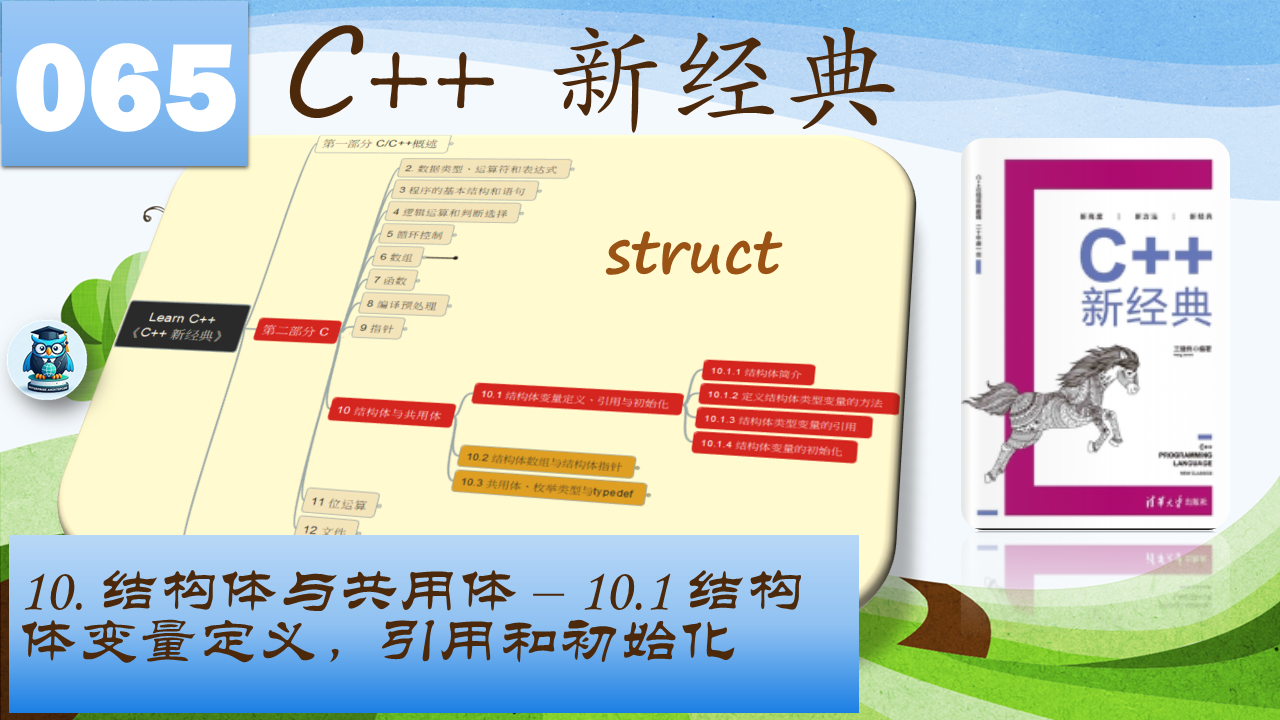
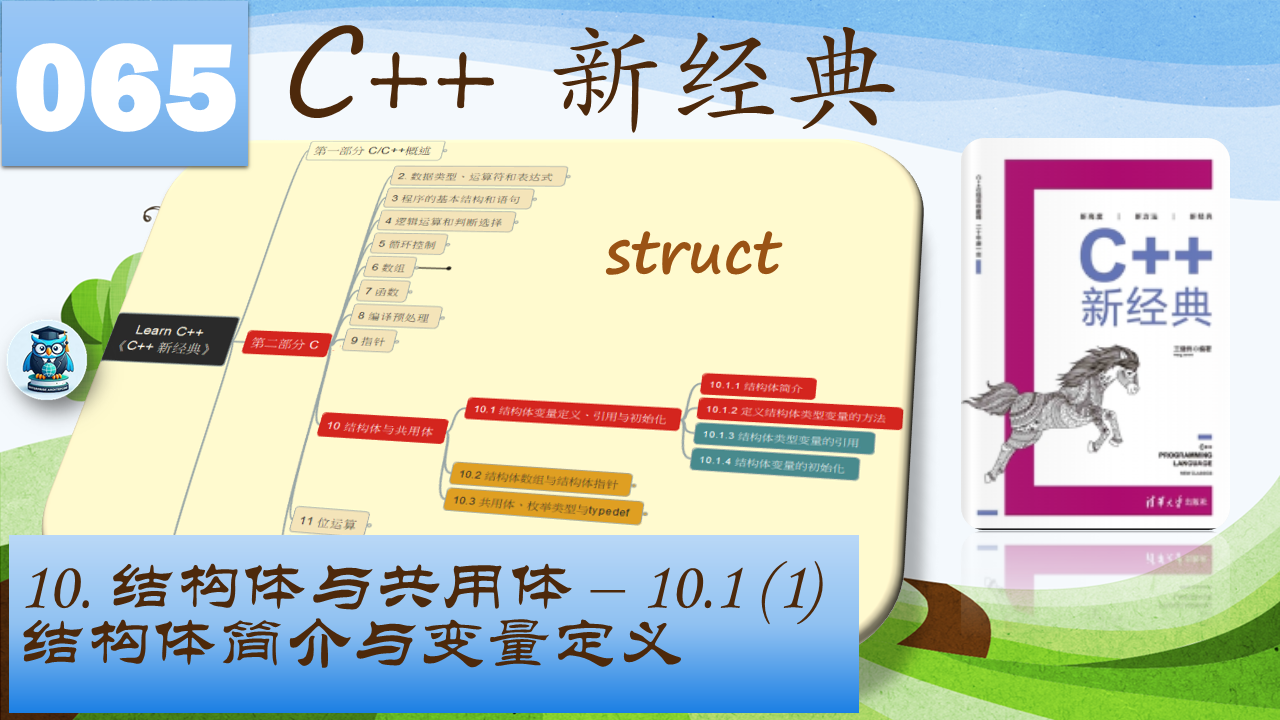
complete C-lang part

diff --git a/cpp_new/cpp_new.mm b/cpp_new/cpp_new.mm
@@ -83,7 +83,7 @@
 <node TEXT="第一部分 C/C++概述" FOLDED="true" POSITION="bottom_or_right" ID="ID_1586641191" CREATED="1697059273426" MODIFIED="1712683467480" VGAP_QUANTITY="3 pt">
 <node TEXT="1 C/C++语言" ID="ID_308802542" CREATED="1697059426298" MODIFIED="1712683467479"/>
 </node>
-<node TEXT="第二部分 C" POSITION="bottom_or_right" ID="ID_927283953" CREATED="1696099910757" MODIFIED="1697059294958">
+<node TEXT="第二部分 C" FOLDED="true" POSITION="bottom_or_right" ID="ID_927283953" CREATED="1696099910757" MODIFIED="1697059294958">
 <node TEXT="2. 数据类型、运算符和表达式" FOLDED="true" POSITION="bottom_or_right" ID="ID_1269894434" CREATED="1696104409292" MODIFIED="1696104417623">
 <node TEXT="2.1 常量、变量、整型、实型和字符型&#xa;(video 002)" FOLDED="true" POSITION="bottom_or_right" ID="ID_40937223" CREATED="1696099950317" MODIFIED="1696104737168">
 <node TEXT="2.1.1 初始程序" POSITION="bottom_or_right" ID="ID_60111752" CREATED="1696103532243" MODIFIED="1696103585134"/>
@@ -348,20 +348,20 @@
 <node TEXT="12.1.1 文件简介" POSITION="bottom_or_right" ID="ID_419371883" CREATED="1712872977648" MODIFIED="1712873000840"/>
 <node TEXT="12.1.2 文本文件和二进制文件区别详细解释" POSITION="bottom_or_right" ID="ID_43966543" CREATED="1712873002856" MODIFIED="1712873020085"/>
 </node>
-<node TEXT="12.2 文件的打开、关闭、读写与实战操练" FOLDED="true" ID="ID_1378202668" CREATED="1712537463591" MODIFIED="1712537481234">
+<node TEXT="12.2 文件的打开、关闭、读写与实战操练" ID="ID_1378202668" CREATED="1712537463591" MODIFIED="1712537481234">
 <node TEXT="12.2.1 文件的打开" ID="ID_1577053714" CREATED="1712873031189" MODIFIED="1712873036287"/>
 <node TEXT="12.2.2 文件的关闭" ID="ID_160958507" CREATED="1712873041176" MODIFIED="1712873046904"/>
 <node TEXT="12.2.3 文件的读写" ID="ID_1132542784" CREATED="1712873049731" MODIFIED="1712873054076"/>
 <node TEXT="12.2.4 文件读写实战操练" ID="ID_1882880676" CREATED="1712873059315" MODIFIED="1712873071344"/>
 </node>
-<node TEXT="12.3 将结构体写入二进制文件再读出" FOLDED="true" ID="ID_712693750" CREATED="1712537481399" MODIFIED="1712537497786">
+<node TEXT="12.3 将结构体写入二进制文件再读出" ID="ID_712693750" CREATED="1712537481399" MODIFIED="1712537497786">
 <node TEXT="12.3.1 将结构体写入二进制文件" ID="ID_871246804" CREATED="1712873077062" MODIFIED="1712873089606"/>
 <node TEXT="12.3.2 从二进制文件中读出结构体数据" ID="ID_1496589005" CREATED="1712873091056" MODIFIED="1712873110273"/>
 <node TEXT="12.3.3 文件使用方式中&quot;rb&quot;和&quot;r&quot;、&quot;wb&quot;和&quot;w&quot;的区别" ID="ID_460075555" CREATED="1712873114123" MODIFIED="1712873140864"/>
 </node>
 </node>
 </node>
-<node TEXT="第三部分 C++" FOLDED="true" POSITION="bottom_or_right" ID="ID_1603334182" CREATED="1696099917076" MODIFIED="1697059303547">
+<node TEXT="第三部分 C++" POSITION="bottom_or_right" ID="ID_1603334182" CREATED="1696099917076" MODIFIED="1697059303547">
 <node TEXT="13 C++基本语言" FOLDED="true" ID="ID_1640480575" CREATED="1712537502371" MODIFIED="1712537512569">
 <node TEXT="13.1 语言特性、工程构成与可移植性" ID="ID_1996146468" CREATED="1712873197830" MODIFIED="1712878074919">
 <node TEXT="13.1.1 语言特性：过程式、对象式程序设计" ID="ID_171717855" CREATED="1712878076080" MODIFIED="1712878093102"/>
